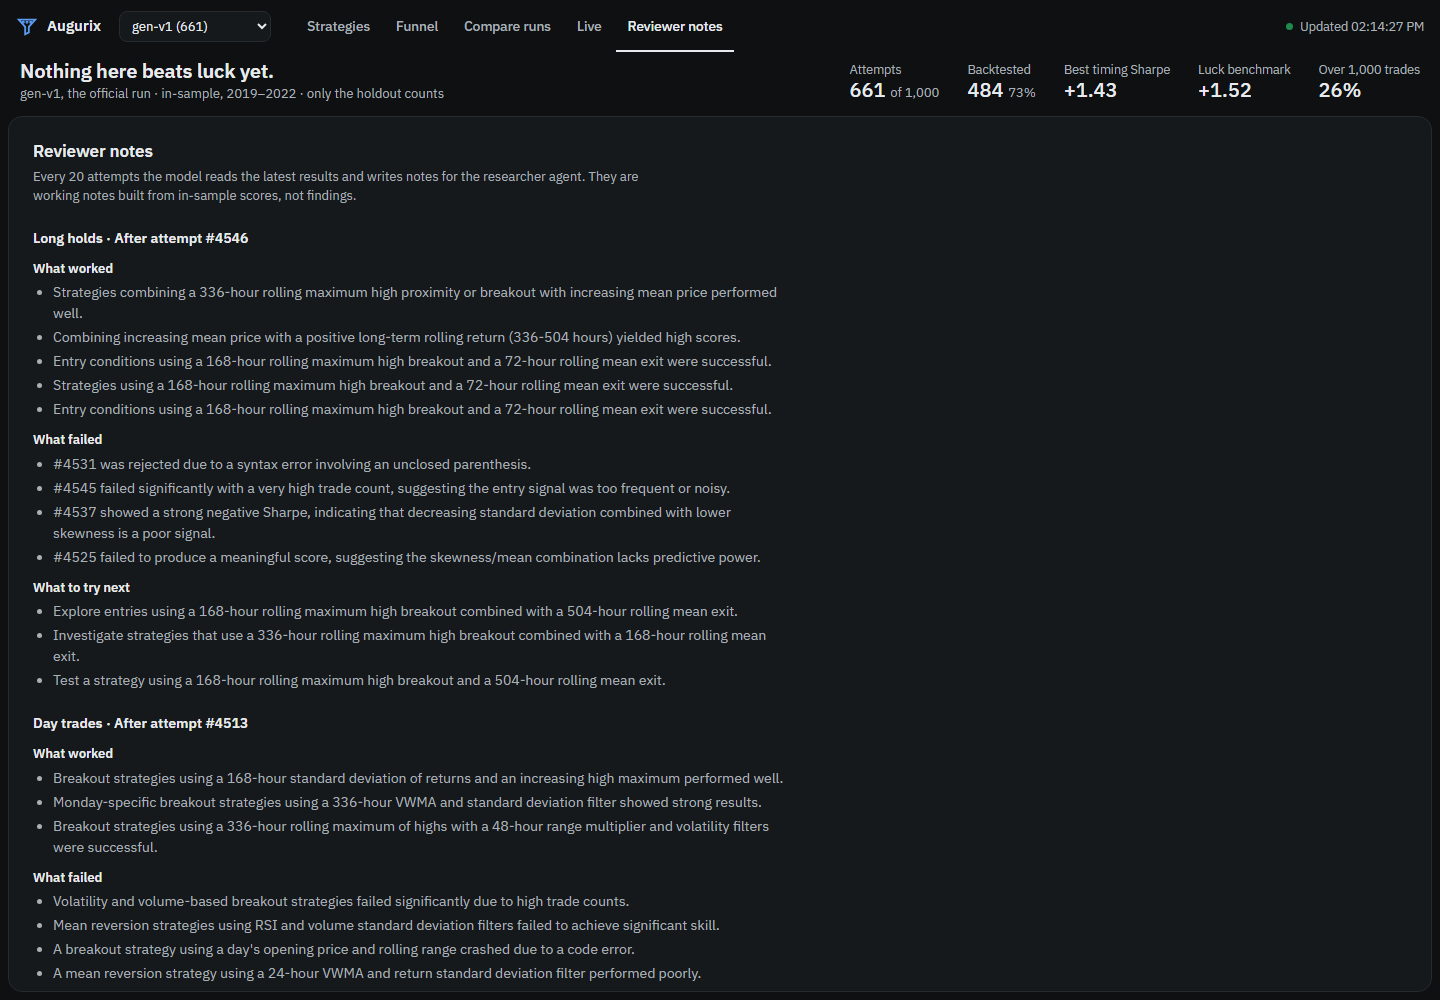
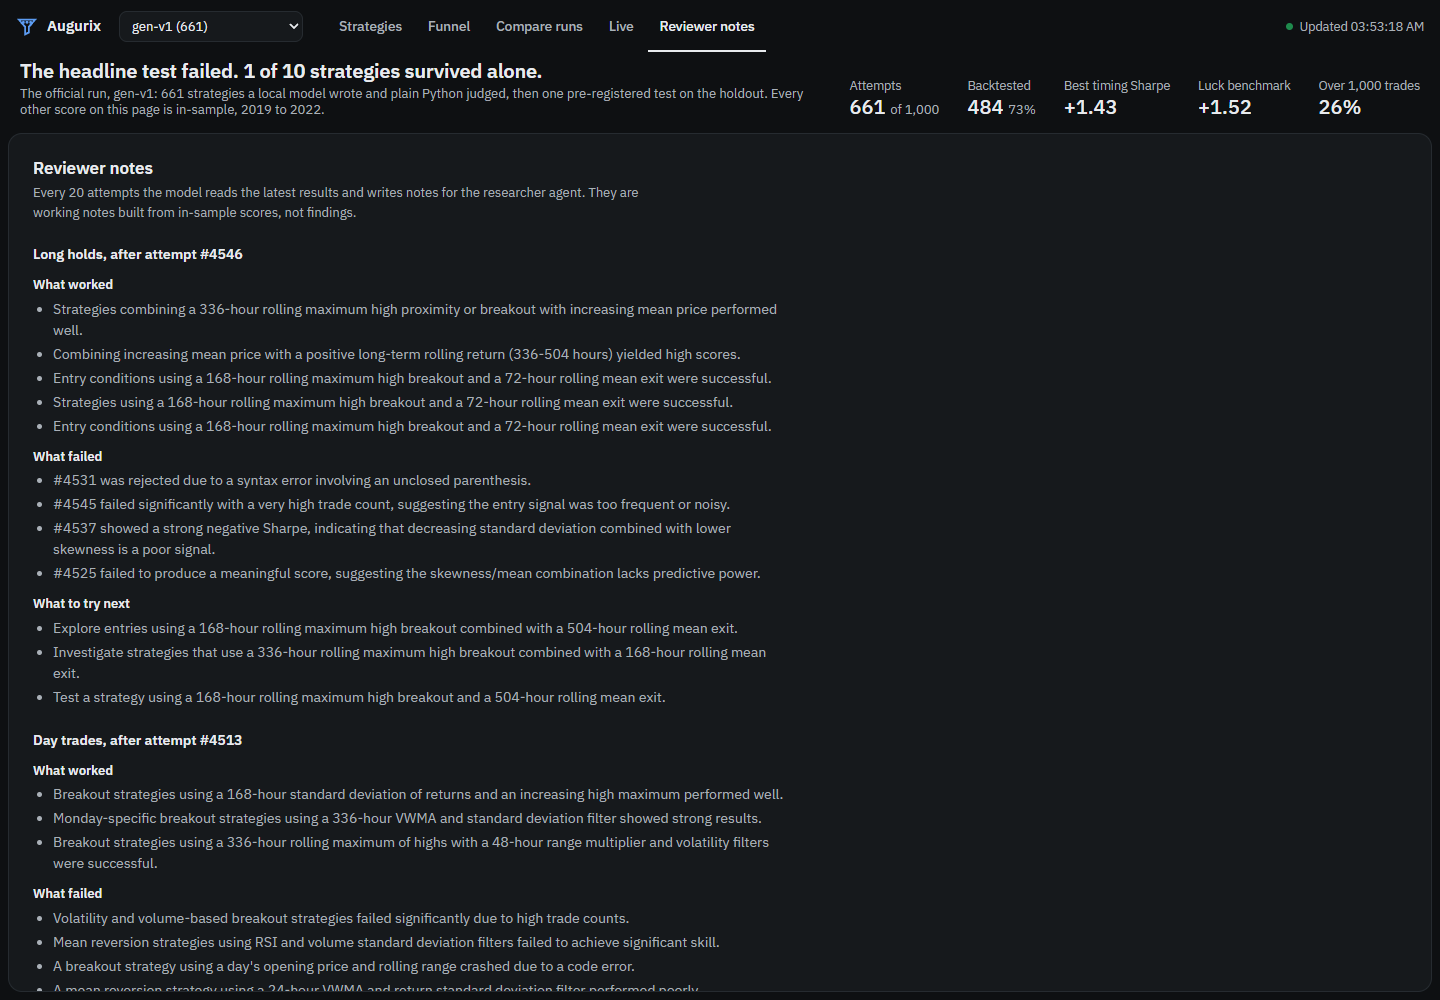
Dashboard wording: plain headline, no dashes or middle dots in copy
The headline reads "The headline test failed. 1 of 10 strategies survived alone." with a sentence on what
the run was under it. "2019–2022" reads "2019 to 2022", meta strings use commas instead of middle dots, and
the inspector says its score is compared with the discovery luck benchmark. README screenshots retaken.

diff --git a/dashboard.html b/dashboard.html
@@ -326,7 +326,7 @@ svg .lab { fill: var(--ink2); }
       <div class="lock">
         <svg viewBox="0 0 24 24" fill="none" stroke="currentColor" stroke-width="1.8" aria-hidden="true"><rect x="5" y="11" width="14" height="9" rx="2"/><path d="M8 11V8a4 4 0 0 1 8 0v3"/></svg>
         <div><h3>Validation and holdout: each run once</h3>
-          <p>Everything else on this page is measured on 2019–2022, a period the model has seen, so none of it is evidence that a strategy works. Validation ran once after the official run was finished and the holdout opened once after that (PLAN.md, Week 5; results/ and PREREGISTRATION.md hold the numbers). Current prices are holdout data, so this page never fetches them.</p></div>
+          <p>Everything else on this page is measured on 2019 to 2022, a period the model has seen, so none of it is evidence that a strategy works. Validation ran once after the official run was finished and the holdout opened once after that (PLAN.md, Week 5; results/ and PREREGISTRATION.md hold the numbers). Current prices are holdout data, so this page never fetches them.</p></div>
       </div>
     </section>
 
@@ -511,9 +511,11 @@ function title(d) {
     return;
   }
   const n = t.span.scored, best = f.best, luck = t.luck;
-  const why = `${run ? run.run_id + (run.pilot ? ", a pilot" : ", the official run") : ""} · in-sample, 2019–2022 · only the holdout counts`;
+  const who = run ? (run.pilot ? `Pilot run ${run.run_id}` : `The official run, ${run.run_id}`) : "This run";
   const ho = d.week5 && d.week5.holdout;  // set once open_holdout.py has run for this run
-  const head = ho ? `Holdout: the headline test ${ho.primary_passed ? "passed" : "failed"}; ${ho.survivors} of ${d.week5.shortlisted} survived alone.`
+  const why = ho ? `${who}: ${(f.generated || 0).toLocaleString()} strategies a local model wrote and plain Python judged, then one pre-registered test on the holdout. Every other score on this page is in-sample, 2019 to 2022.`
+                 : `${who}. Every score is in-sample, 2019 to 2022; only the holdout counts.`;
+  const head = ho ? `The headline test ${ho.primary_passed ? "passed" : "failed"}. ${ho.survivors} of ${d.week5.shortlisted} strategies survived alone.`
              : n < 2 || best == null ? "Too few backtests to say anything yet."
              : best <= luck ? "Nothing here beats luck yet." : "One score is above luck. A reason to validate, not evidence.";
   $("verdict").replaceChildren(head, h("small", {}, why));
@@ -718,8 +720,8 @@ function scatter(scored) {
     lastPt = [(e.clientX - r.left) / r.width * vb.width, (e.clientY - r.top) / r.height * vb.height];
     const p = nearest(lastPt);
     if (!p || e.buttons) { tip.style.display = "none"; return; }
-    tip.replaceChildren(h("b", {}, `#${p.r.id} · ${plain(p.r.family)}`), h("br"),
-      h("span", {}, `timing ${signed(p.r.timing_sharpe)} · ${Math.round(p.r.trades_per_symbol)} trades · held ${held(p.r.hold_hours)}`),
+    tip.replaceChildren(h("b", {}, `#${p.r.id}, ${plain(p.r.family)}`), h("br"),
+      h("span", {}, `Timing ${signed(p.r.timing_sharpe)}, ${Math.round(p.r.trades_per_symbol)} trades, held ${held(p.r.hold_hours)}`),
       h("span", {class: "idea"}, (p.r.hypothesis || "").slice(0, 160)));
     const br = wrap.getBoundingClientRect(), px = e.clientX - br.left, py = e.clientY - br.top;
     tip.style.display = "block";
@@ -742,7 +744,7 @@ function refilter() {
   chips("fam", [...new Set(ROWS.map(r => r.family || "none"))].sort().map(f => [f, plain(f), ROWS.filter(r => (r.family || "none") === f && !r.tries).length]), F.fams);
   const kept = scored.filter(r => passes(r));
   const parts = [h("b", {}, kept.length.toLocaleString()), ` of ${scored.length.toLocaleString()} backtested pass`];
-  if (kept.length) parts.push(" · best ", h("b", {}, signed(Math.max(...kept.map(r => r.timing_sharpe)))), " · median ", h("b", {}, signed(median(kept.map(r => r.timing_sharpe)))));
+  if (kept.length) parts.push(". Best ", h("b", {}, signed(Math.max(...kept.map(r => r.timing_sharpe)))), ", median ", h("b", {}, signed(median(kept.map(r => r.timing_sharpe)))), ".");
   if (F.group != null) parts.push(h("br"), `only near-copies of #${F.group} `, on(h("button", {class: "link"}, "show all"), () => { F.group = null; refilter(); }));
   $("passing").replaceChildren(...parts);
   table();
@@ -781,7 +783,7 @@ function table() {
         e => { e.stopPropagation(); open.has(r.group) ? open.delete(r.group) : open.add(r.group); table(); }), h("span", {class: "n", title: `${size} near-copies`}, "×" + size)] : []),
         String(r.id), r.tries ? h("span", {class: "tag"}, ` retry ${r.tries}`) : ""),
       h("td", {class: "idea", title: r.hypothesis || ""}, h("span", {}, (r.hypothesis || "").replace(/^Enter (long )?when /i, "")),
-        h("em", {}, [plain(r.family), ISLAND[r.island]].filter(Boolean).join(" · "))),
+        h("em", {}, [plain(r.family), (ISLAND[r.island] || "").toLowerCase()].filter(Boolean).join(", "))),
       h("td", {}, chip(r.status)),
       h("td", {class: "r score", title: size > 1 && !member ? `median of the group: ${signed(median(members.filter(isScored).map(x => x.timing_sharpe)))}` : ""},
         h("div", {}, h("b", {class: luck != null && r.timing_sharpe > luck ? "beat" : ""}, signed(r.timing_sharpe)), ruler(r.timing_sharpe, luck))),
@@ -838,14 +840,14 @@ async function show(id) {
   const {attempt: a} = await res.json();
   const row = BYID.get(id) || a, luck = luckNow();
   const kids = [
-    h("div", {class: "who"}, h("h2", {}, `#${a.id} · ${plain(a.family)}`), chip(a.status)),
-    h("p", {class: "meta"}, [a.run_id + (a.pilot ? " (pilot)" : ""), ISLAND[row.island], "prompts " + (a.prompt_version || "–"), "look-ahead test: " + (a.lookahead || "not reached")].filter(Boolean).join(" · ")),
+    h("div", {class: "who"}, h("h2", {}, `#${a.id}, ${plain(a.family)}`), chip(a.status)),
+    h("p", {class: "meta"}, [a.run_id + (a.pilot ? " (pilot)" : ""), ISLAND[row.island], "prompts " + (a.prompt_version || "–"), "look-ahead test: " + (a.lookahead || "not reached")].filter(Boolean).join(", ")),
     h("p", {class: "idea-text"}, a.hypothesis || ""),
   ];
   if (a.timing_sharpe != null) {
     const beat = luck != null && a.timing_sharpe > luck;
     kids.push(h("div", {class: "bigscore"},
-      h("div", {class: "num"}, signed(a.timing_sharpe), h("small", {}, luck == null ? "timing Sharpe" : beat ? "above the luck benchmark" : "timing Sharpe, below luck")),
+      h("div", {class: "num"}, signed(a.timing_sharpe), h("small", {}, luck == null ? "timing Sharpe, in-sample" : beat ? "in-sample, above the discovery luck benchmark" : "in-sample, below the discovery luck benchmark")),
       ruler(a.timing_sharpe, luck, 360, true)));
   }
   if (a.error) kids.push(h("pre", {class: "err"}, a.error));
@@ -916,7 +918,7 @@ const replay = (() => {
     const cells = Object.fromEntries(["When", "Position", "Strategy", "Buy & hold", "Fees paid", "Trades"].map(k => [k, h("b", {}, "–")]));
     const log = h("ul", {class: "tradelog", "aria-live": "polite"});
     host.replaceChildren(h("h3", {}, "Replay its trades"),
-      h("p", {class: "sub", style: "margin:2px 0 0"}, `Every position change on the 2019–2022 hourly bars. ▲ bought, ▼ sold; the strip underneath is the position, 0 to 100% of the account. The dollars are a pretend ${usd(START)} on this coin alone, after the ${(D.fee ?? .001) * 100}% fee on every trade, against putting the same ${usd(START)} in and holding. In-sample, so not evidence. Space plays and pauses.`),
+      h("p", {class: "sub", style: "margin:2px 0 0"}, `Every position change on the 2019 to 2022 hourly bars. ▲ bought, ▼ sold; the strip underneath is the position, 0 to 100% of the account. The dollars are a pretend ${usd(START)} on this coin alone, after the ${(D.fee ?? .001) * 100}% fee on every trade, against putting the same ${usd(START)} in and holding. In-sample, so not evidence. Space plays and pauses.`),
       h("div", {class: "replay-bar"}, tabs, play, pace, scrub), stage,
       h("div", {class: "readout"}, ...Object.entries(cells).map(([k, v]) => h("div", {}, k, v))), log);
     stage.append(fx);
@@ -1079,10 +1081,10 @@ function lanes() {
         if (best == null || r.timing_sharpe > best) { best = r.timing_sharpe; path += `${path ? "H" + X(j).toFixed(1) + "V" : "M" + X(j).toFixed(1) + " "}${Y(best).toFixed(1)}`; }
         g.append(s("circle", {cx: X(j), cy: Y(r.timing_sharpe), r: beat ? 5 : 3.4, fill: "var(--hue)", opacity: beat ? 1 : .8,
                               stroke: beat ? "var(--ink)" : "none", "stroke-width": 1.5, class: fresh ? "fresh-dot" : ""},
-          s("title", {}, `#${r.id} · ${signed(r.timing_sharpe)} · ${(r.hypothesis || "").slice(0, 120)}`)));
+          s("title", {}, `#${r.id}, ${signed(r.timing_sharpe)}: ${(r.hypothesis || "").slice(0, 120)}`)));
       } else {
         g.append(s("rect", {x: X(j) - 1, y: strip, width: 2, height: 10, rx: 1, fill: `var(--${(OUTCOME[r.status] || [0, "muted"])[1]})`, opacity: .7, class: fresh ? "fresh-dot" : ""},
-          s("title", {}, `#${r.id} · ${outcome(r.status)}`)));
+          s("title", {}, `#${r.id}, ${outcome(r.status)}`)));
       }
       if (r.id === newest && !calm.matches)
         g.append(s("circle", {cx: X(j), cy: isScored(r) ? Y(r.timing_sharpe) : strip + 5, r: 5, fill: "none", stroke: "var(--hue)", "stroke-width": 1.5, class: "ping"}));
@@ -1095,7 +1097,7 @@ function lanes() {
     const scored = rs.filter(isScored);
     return h("div", {class: "lane"},
       h("div", {class: "head"}, h("h2", {}, ISLAND[k] || "All attempts"),
-        h("span", {}, `${rs.length} attempts · ${scored.length} backtested · median ${signed(median(scored.map(r => r.timing_sharpe)))}`)), g);
+        h("span", {}, `${rs.length} attempts, ${scored.length} backtested, median ${signed(median(scored.map(r => r.timing_sharpe)))}`)), g);
   });
   $("lanes").replaceChildren(...(out.length ? out : [h("p", {class: "empty"}, "No attempts logged yet.")]));
   for (const r of ROWS) seenLive.add(r.id);
@@ -1145,7 +1147,7 @@ function lessons(d) {
   if (!d.lessons.length) return $("lessons").replaceChildren(h("div", {class: "empty"}, "No reviews yet. The first comes after 20 attempts."));
   $("lessons").replaceChildren(...d.lessons.map(note => {
     const island = ISLAND[(note.run_id || "").split("/")[1]];
-    const box = h("div", {}, h("h3", {}, `${island ? island + " · " : ""}After attempt #${note.after_attempt}`));
+    const box = h("div", {}, h("h3", {}, `${island ? island + ", after" : "After"} attempt #${note.after_attempt}`));
     for (const line of note.text.split("\n")) {
       const cut = line.indexOf(":");
       if (cut < 0) continue;
